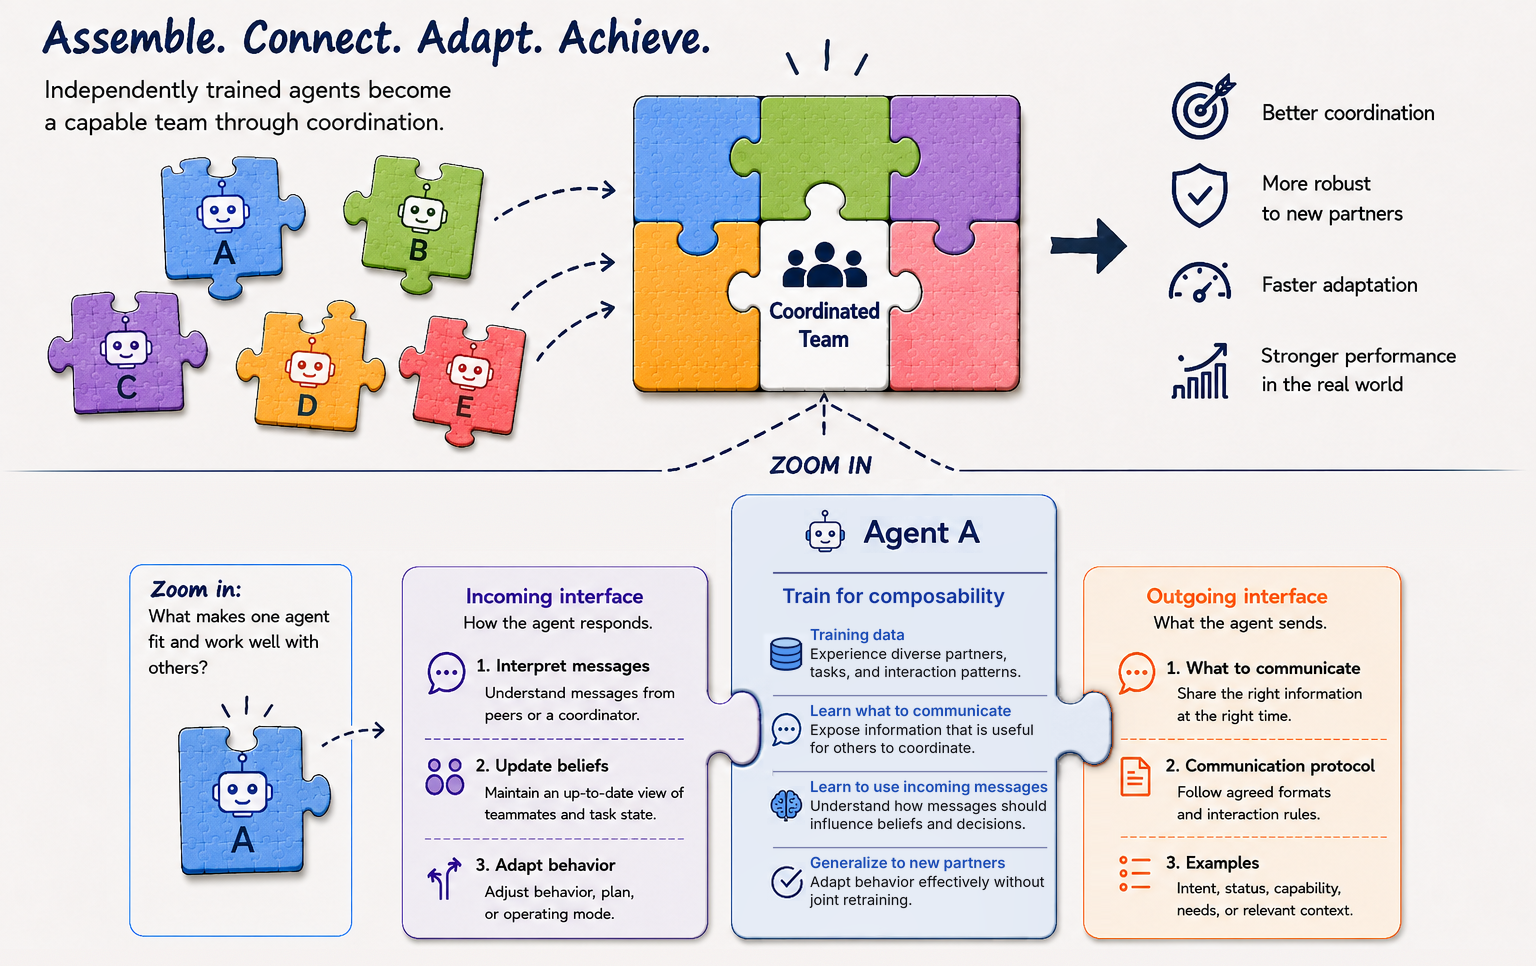
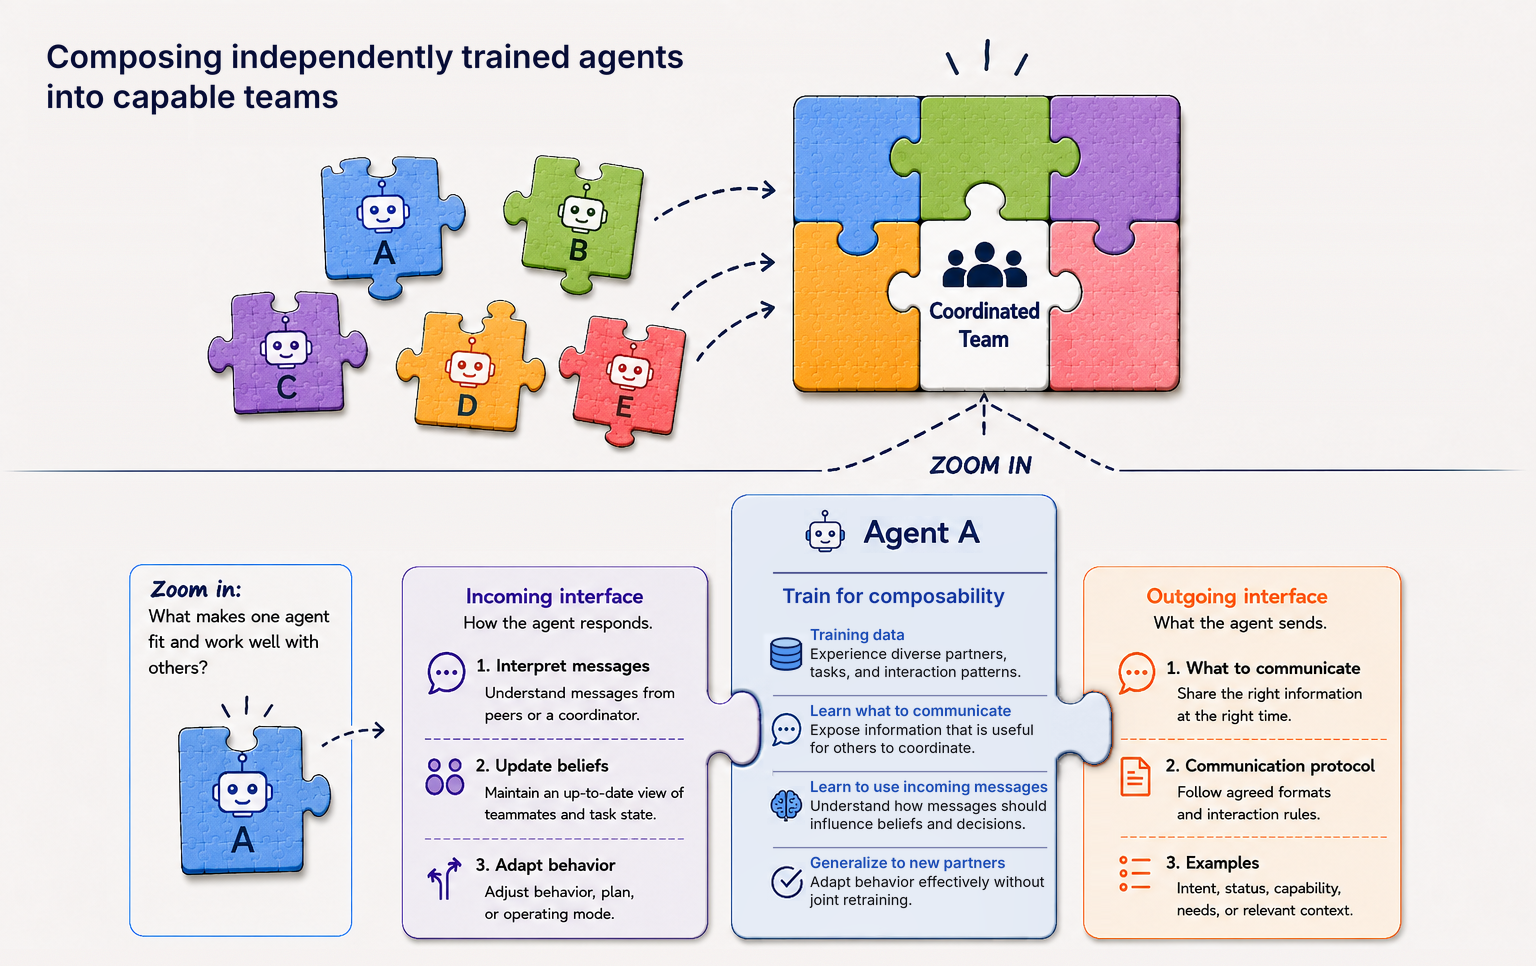
Publish the research showcase

Changed region(s): [[0.0312, 0.0, 0.9375, 0.4969], [0.4375, 0.4658, 0.4688, 0.4969]]

diff --git a/composable-anim.js b/composable-anim.js
@@ -1,0 +1,303 @@
+/* Animated version of the closing figure.
+ *
+ * Five independently trained agents drift in, assemble into one team, the
+ * camera zooms into a single piece, and that piece unfolds into the three
+ * interfaces -- which then fly down and hand off to the real component boxes
+ * on the page.
+ *
+ * Built as inline SVG driven by the Web Animations API: it stays sharp at any
+ * size, needs no library, and can be cancelled and replayed cleanly. The
+ * static PNG remains in the DOM as the fallback for reduced-motion, for
+ * browsers without WAAPI, and for anything that runs with JS off.
+ */
+(function () {
+  'use strict';
+
+  var C = {                       // sampled from the figure itself
+    blue: '#67a0f3', green: '#9cbf50', purple: '#ad7ad1',
+    orange: '#fdab33', coral: '#fc8e96', ink: '#383c5d',
+    paper: '#f7f4f2', white: '#ffffff'
+  };
+  var S = 140;                    // puzzle piece size
+  var NS = 'http://www.w3.org/2000/svg';
+
+  /* ---------- puzzle geometry ----------
+     Each side runs 38% flat, a semicircular knob over the middle 24%, then
+     38% flat. tab = +1 pushes the knob outward, -1 cuts it inward, 0 is a
+     straight edge. Neighbouring pieces get opposite signs so they interlock. */
+  function side(len, dx, dy, tab) {
+    if (!tab) return 'l ' + dx * len + ' ' + dy * len;
+    var a = 0.38 * len, k = 0.24 * len, r = 0.12 * len;
+    // Walking each side in order, an outward knob always veers left, which is
+    // sweep 0 in SVG's y-down coordinates -- on every side, not just the first
+    // two. Passing a per-side sweep inverted the bottom and left edges, so a
+    // tab and its neighbour's blank both cut inward and left a hole.
+    var sw = tab > 0 ? 0 : 1;
+    return 'l ' + dx * a + ' ' + dy * a + ' ' +
+           'a ' + r + ' ' + r + ' 0 0 ' + sw + ' ' + dx * k + ' ' + dy * k + ' ' +
+           'l ' + dx * a + ' ' + dy * a;
+  }
+  // edges: [top, right, bottom, left]
+  function piecePath(s, e) {
+    return 'M 0 0 ' +
+      side(s, 1, 0, e[0]) +        // top,    knob points up
+      side(s, 0, 1, e[1]) +        // right,  knob points right
+      side(s, -1, 0, e[2]) +       // bottom, knob points down
+      side(s, 0, -1, e[3]) +       // left,   knob points left
+      ' Z';
+  }
+
+  function el(name, attrs, parent) {
+    var n = document.createElementNS(NS, name);
+    for (var k in attrs) n.setAttribute(k, attrs[k]);
+    if (parent) parent.appendChild(n);
+    return n;
+  }
+
+  /* a small robot face, drawn at the centre of a piece */
+  function robot(g, cx, cy, ink) {
+    el('line', { x1: cx, y1: cy - 34, x2: cx, y2: cy - 24, stroke: ink,
+                 'stroke-width': 2.4, 'stroke-linecap': 'round' }, g);
+    el('circle', { cx: cx, cy: cy - 37, r: 3.4, fill: ink }, g);
+    el('rect', { x: cx - 22, y: cy - 24, width: 44, height: 36, rx: 9,
+                 fill: '#fff', stroke: ink, 'stroke-width': 2.4 }, g);
+    el('circle', { cx: cx - 8, cy: cy - 8, r: 3.2, fill: ink }, g);
+    el('circle', { cx: cx + 8, cy: cy - 8, r: 3.2, fill: ink }, g);
+    el('path', { d: 'M ' + (cx - 8) + ' ' + (cy + 2) + ' q 8 7 16 0',
+                 fill: 'none', stroke: ink, 'stroke-width': 2.2,
+                 'stroke-linecap': 'round' }, g);
+  }
+
+  /* ---------- the scene ---------- */
+  // grid slot -> [edges, colour, letter]; the centre-bottom slot is the team
+  var SLOTS = [
+    { col: 0, row: 0, e: [0, 1, -1, 0], c: C.blue,   t: 'A' },
+    { col: 1, row: 0, e: [0, -1, 1, -1], c: C.green,  t: 'B' },
+    { col: 2, row: 0, e: [0, 0, -1, 1], c: C.purple, t: 'C' },
+    { col: 0, row: 1, e: [1, -1, 0, 0], c: C.orange, t: 'D' },
+    { col: 2, row: 1, e: [1, 0, 0, -1], c: C.coral,  t: 'E' }
+  ];
+  var TEAM = { col: 1, row: 1, e: [-1, 1, 0, 1] };
+  // where each piece starts, scattered on the left
+  var START = [
+    { x: 120, y: 120, r: -14 }, { x: 330, y: 78,  r: 11 },
+    { x: 60,  y: 300, r: 8 },   { x: 250, y: 320, r: -7 },
+    { x: 400, y: 286, r: 15 }
+  ];
+  var GX = 560, GY = 96;                      // grid origin
+
+  function build(host) {
+    var svg = el('svg', {
+      viewBox: '0 0 1100 560', class: 'canim-svg',
+      role: 'img', 'aria-label':
+        'Independently trained agents assembling into a coordinated team, ' +
+        'then one agent unfolding into its incoming interface, training, ' +
+        'and outgoing interface.'
+    });
+    var scene = el('g', { class: 'canim-scene' }, svg);
+
+    // the assembled team piece, revealed on snap
+    var team = el('g', { class: 'canim-team', opacity: '0' }, scene);
+    var tp = el('path', {
+      d: piecePath(S, TEAM.e), fill: C.white, stroke: '#d8d3cd',
+      'stroke-width': 2, transform: 'translate(' + (GX + TEAM.col * S) +
+        ',' + (GY + TEAM.row * S) + ')'
+    }, team);
+    var tcx = GX + TEAM.col * S + S / 2, tcy = GY + TEAM.row * S + S / 2;
+    el('text', { x: tcx, y: tcy + 4, 'text-anchor': 'middle',
+      class: 'canim-teamtext', fill: C.ink }, team).textContent = 'Coordinated';
+    el('text', { x: tcx, y: tcy + 24, 'text-anchor': 'middle',
+      class: 'canim-teamtext', fill: C.ink }, team).textContent = 'Team';
+    void tp;
+
+    var pieces = SLOTS.map(function (s, i) {
+      var g = el('g', { class: 'canim-piece', 'data-i': i }, scene);
+      el('path', { d: piecePath(S, s.e), fill: s.c, stroke: 'rgba(0,0,0,.13)',
+                   'stroke-width': 1.5 }, g);
+      robot(g, S / 2, S / 2 - 4, C.ink);
+      el('text', { x: S / 2, y: S / 2 + 42, 'text-anchor': 'middle',
+        class: 'canim-letter', fill: C.ink }, g).textContent = s.t;
+      return g;
+    });
+
+    host.appendChild(svg);
+    return { svg: svg, scene: scene, pieces: pieces, team: team };
+  }
+
+  /* ---------- timeline ---------- */
+  function run(ctx, panels, heads, section, done) {
+    var anims = [];
+    function A(node, frames, opts) {
+      var a = node.animate(frames, Object.assign({ fill: 'both',
+        easing: 'cubic-bezier(.22,.61,.36,1)' }, opts));
+      anims.push(a);
+      return a;
+    }
+    var T = 0;
+    // 1. drift in, scattered
+    ctx.pieces.forEach(function (g, i) {
+      var s = START[i];
+      g.style.transformBox = 'fill-box';
+      A(g, [
+        { transform: 'translate(' + s.x + 'px,' + (s.y + 40) + 'px) rotate(' +
+            s.r + 'deg) scale(.9)', opacity: 0 },
+        { transform: 'translate(' + s.x + 'px,' + s.y + 'px) rotate(' +
+            s.r + 'deg) scale(1)', opacity: 1 }
+      ], { duration: 620, delay: i * 110 });
+    });
+    T = 620 + 4 * 110 + 240;
+
+    // 2. assemble
+    ctx.pieces.forEach(function (g, i) {
+      var s = START[i], sl = SLOTS[i];
+      A(g, [
+        { transform: 'translate(' + s.x + 'px,' + s.y + 'px) rotate(' + s.r + 'deg)' },
+        { transform: 'translate(' + (GX + sl.col * S) + 'px,' +
+            (GY + sl.row * S) + 'px) rotate(0deg)' }
+      ], { duration: 900, delay: T + i * 90 });
+    });
+    T += 900 + 4 * 90;
+    A(ctx.team, [{ opacity: 0, transform: 'scale(.86)' },
+                 { opacity: 1, transform: 'scale(1)' }],
+      { duration: 460, delay: T });
+    ctx.team.style.transformOrigin = tcxy();
+    T += 460 + 420;
+
+    // 3. zoom to piece A
+    var zx = GX + S / 2, zy = GY + S / 2, k = 2.3;
+    A(ctx.scene, [
+      { transform: 'translate(0px,0px) scale(1)' },
+      { transform: 'translate(' + (550 - zx * k) + 'px,' + (250 - zy * k) +
+          'px) scale(' + k + ')' }
+    ], { duration: 1000, delay: T });
+    ctx.pieces.forEach(function (g, i) {
+      if (i === 0) return;
+      A(g, [{ opacity: 1 }, { opacity: .12 }], { duration: 700, delay: T + 200 });
+    });
+    A(ctx.team, [{ opacity: 1 }, { opacity: .12 }], { duration: 700, delay: T + 200 });
+    T += 1000 + 260;
+
+    // 4. unfold into three panels
+    A(ctx.svg, [{ opacity: 1 }, { opacity: 0 }], { duration: 520, delay: T });
+    panels.forEach(function (p, i) {
+      p.style.opacity = 0;
+      A(p, [
+        { opacity: 0, transform: 'translateY(26px) scale(.9)' },
+        { opacity: 1, transform: 'translateY(0) scale(1)' }
+      ], { duration: 620, delay: T + 180 + i * 150 });
+    });
+    // hold: the three panels are the point of the sequence, and at 700ms
+    // they were fully visible for barely half a second before flying off
+    T += 620 + 2 * 150 + 1700;
+
+    // 5. hand off to the real boxes below
+    if (heads.length === 3) {
+      var srect = section.getBoundingClientRect();
+      panels.forEach(function (p, i) {
+        var from = p.getBoundingClientRect();
+        var to = heads[i].getBoundingClientRect();
+        var dx = to.left - from.left, dy = to.top - from.top;
+        var sx = to.width / from.width, sy = to.height / from.height;
+        A(p, [
+          { transform: 'translate(0,0) scale(1,1)', opacity: 1 },
+          { transform: 'translate(' + dx + 'px,' + dy + 'px) scale(' +
+              sx.toFixed(3) + ',' + sy.toFixed(3) + ')', opacity: 0 }
+        ], { duration: 900, delay: T });
+      });
+      heads.forEach(function (h, i) {
+        A(h, [{ boxShadow: '0 0 0 0 rgba(122,46,34,0)' },
+               { boxShadow: '0 0 0 3px rgba(122,46,34,.28)' },
+               { boxShadow: '0 0 0 0 rgba(122,46,34,0)' }],
+          { duration: 900, delay: T + 420 + i * 90 });
+      });
+      void srect;
+      T += 900;
+    }
+    setTimeout(done, T + 120);
+    return anims;
+  }
+  function tcxy() { return 'center'; }
+
+  /* ---------- wiring ---------- */
+  function init() {
+    var fig = document.querySelector('#future .ffig');
+    if (!fig) return;
+    var img = fig.querySelector('img');
+    if (!img || !/composability/.test(img.getAttribute('src') || '')) return;
+    if (!document.body.animate) return;                   // no WAAPI: keep the PNG
+    if (window.matchMedia &&
+        window.matchMedia('(prefers-reduced-motion: reduce)').matches) return;
+
+    var wrap = document.createElement('div');
+    wrap.className = 'canim';
+    var stage = document.createElement('div');
+    stage.className = 'canim-stage';
+    wrap.appendChild(stage);
+
+    var ctx = build(stage);
+
+    // the three unfolded panels, in the figure's order
+    var LABELS = [
+      { t: 'Incoming interface', s: 'How the agent responds', c: C.purple },
+      { t: 'Train for composability', s: 'How the agent is built', c: C.blue },
+      { t: 'Outgoing interface', s: 'What the agent sends', c: C.orange }
+    ];
+    var row = document.createElement('div');
+    row.className = 'canim-panels';
+    var panels = LABELS.map(function (l) {
+      var p = document.createElement('div');
+      p.className = 'canim-panel';
+      p.style.borderColor = l.c;
+      p.innerHTML = '<span class="canim-pt" style="color:' + l.c + '">' +
+        l.t + '</span><span class="canim-ps">' + l.s + '</span>';
+      row.appendChild(p);
+      return p;
+    });
+    stage.appendChild(row);
+
+    var replay = document.createElement('button');
+    replay.className = 'canim-replay';
+    replay.type = 'button';
+    replay.textContent = 'replay';
+    replay.hidden = true;
+    wrap.appendChild(replay);
+
+    img.hidden = true;
+    fig.insertBefore(wrap, fig.firstChild);
+
+    var section = document.getElementById('future');
+    var heads = [].slice.call(document.querySelectorAll('#future .comphead'));
+    var live = [];
+    function reset() {
+      live.forEach(function (a) { a.cancel(); });
+      live = [];
+      ctx.svg.style.opacity = '';
+      panels.forEach(function (p) { p.style.opacity = 0; });
+    }
+    function play() {
+      reset();
+      replay.hidden = true;
+      live = run(ctx, panels, heads, section, function () { replay.hidden = false; });
+    }
+    replay.addEventListener('click', play);
+
+    var seen = false;
+    if ('IntersectionObserver' in window) {
+      var io = new IntersectionObserver(function (es) {
+        es.forEach(function (e) {
+          if (e.isIntersecting && !seen) { seen = true; play(); io.disconnect(); }
+        });
+      }, { threshold: 0.35 });
+      io.observe(wrap);
+    } else {
+      play();
+    }
+    window.__canimPlay = play;                 // so the sequence can be driven in tests
+  }
+
+  if (document.readyState === 'loading') {
+    document.addEventListener('DOMContentLoaded', init);
+  } else {
+    init();
+  }
+})();

diff --git a/showcase-base.css b/showcase-base.css
@@ -291,6 +291,35 @@ h1.big{
 .compqs li{font-size:.9rem;color:var(--ink2);margin:0 0 8px;line-height:1.5;
   break-inside:avoid;}
 
+/* ---------- animated closing figure ----------
+   Replaces the static PNG when the browser can drive it. The PNG stays in the
+   DOM, hidden, as the fallback for reduced-motion and for browsers without
+   the Web Animations API. */
+.canim{position:relative;}
+.canim-stage{position:relative;width:100%;}
+.canim-svg{display:block;width:100%;height:auto;}
+.canim-scene{transform-origin:0 0;}
+.canim-letter{font-family:var(--font-ui);font-weight:700;font-size:26px;}
+.canim-teamtext{font-family:var(--font-ui);font-weight:700;font-size:17px;}
+.canim-panels{position:absolute;inset:auto 0 8% 0;display:grid;
+  grid-template-columns:repeat(3,minmax(0,1fr));gap:14px;padding:0 4%;
+  pointer-events:none;}
+.canim-panel{background:var(--card);border:2px solid var(--rule);border-radius:10px;
+  padding:14px 15px;opacity:0;will-change:transform,opacity;
+  box-shadow:0 6px 22px rgba(0,0,0,.07);}
+.canim-pt{display:block;font-family:var(--font-ui);font-weight:700;
+  font-size:.92rem;line-height:1.25;}
+.canim-ps{display:block;font-size:.82rem;color:var(--ink2);margin-top:4px;}
+.canim-replay{position:absolute;right:6px;bottom:-4px;background:none;border:0;
+  font-family:var(--font-ui);font-size:.72rem;letter-spacing:.06em;
+  color:var(--ink3);cursor:pointer;padding:4px 6px;}
+.canim-replay:hover{color:var(--accent);}
+@media (max-width:640px){
+  .canim-panels{position:static;margin-top:10px;padding:0;
+    grid-template-columns:minmax(0,1fr);gap:8px;}
+  .canim-panel{opacity:1 !important;}
+}
+
 /* editor only: the three component details stacked, each labelled */
 .edcomp + .edcomp{margin-top:20px;padding-top:18px;border-top:1px solid var(--rule2);}
 .edcomplab{display:block;margin-bottom:8px;color:var(--accent);}
@@ -304,6 +333,9 @@ h1.big{
 .fgrid-stack{grid-template-columns:minmax(0,1fr);gap:26px;}
 .ffig img{width:100%;height:auto;display:block;background:#fff;border-radius:2px;
   cursor:zoom-in;}
+/* display:block above outranks the hidden attribute, so the fallback PNG
+   stayed visible under the animation until this said otherwise */
+.ffig img[hidden]{display:none;}
 .bet{border-top:2px solid var(--band-rule);padding-top:13px;}
 .bet .bn{font-family:var(--font-mono);font-size:.72rem;color:var(--band-ink3);letter-spacing:.1em;}
 .bet h3{font-family:var(--font-display);font-size:1.08rem;font-weight:var(--w-display);

diff --git a/index.html b/index.html
@@ -5,7 +5,7 @@
 <meta name="viewport" content="width=device-width, initial-scale=1.0">
 <title>Runyu (Cathy) Zhang — Research · Editorial</title>
 
-<link rel="stylesheet" href="showcase-base.css?v=abf2be01">
+<link rel="stylesheet" href="showcase-base.css?v=47fae366">
 <style>
 :root{
   --measure:940px;
@@ -65,5 +65,6 @@
 <div id="app"></div>
 <script src="research-data-v5.js?v=1d3a857b"></script>
 <script src="showcase.js?v=5e531722"></script>
+  <script src="composable-anim.js?v=4d04d845"></script>
 </body>
 </html>
